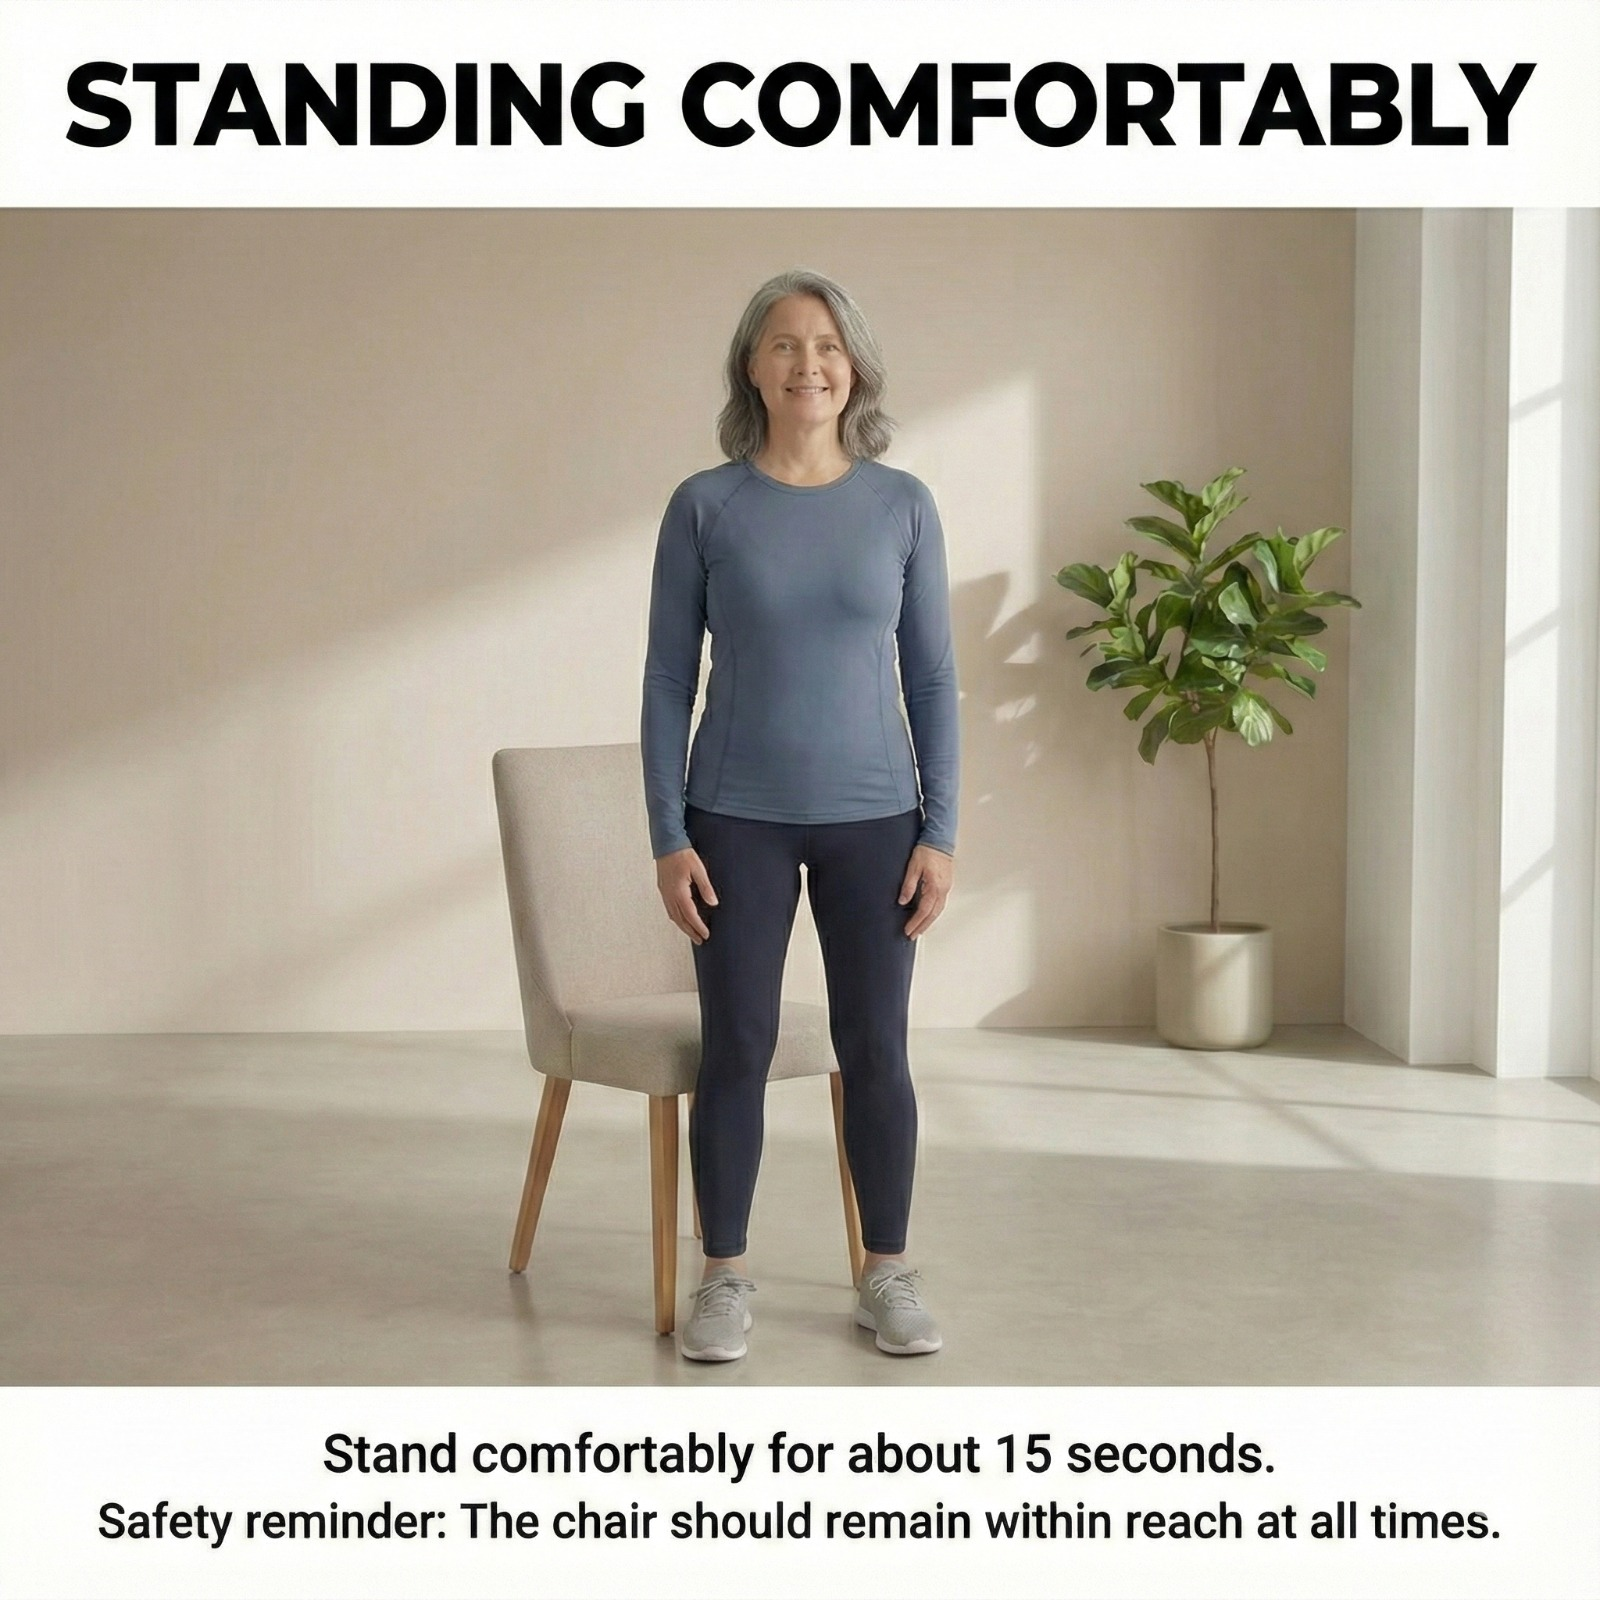
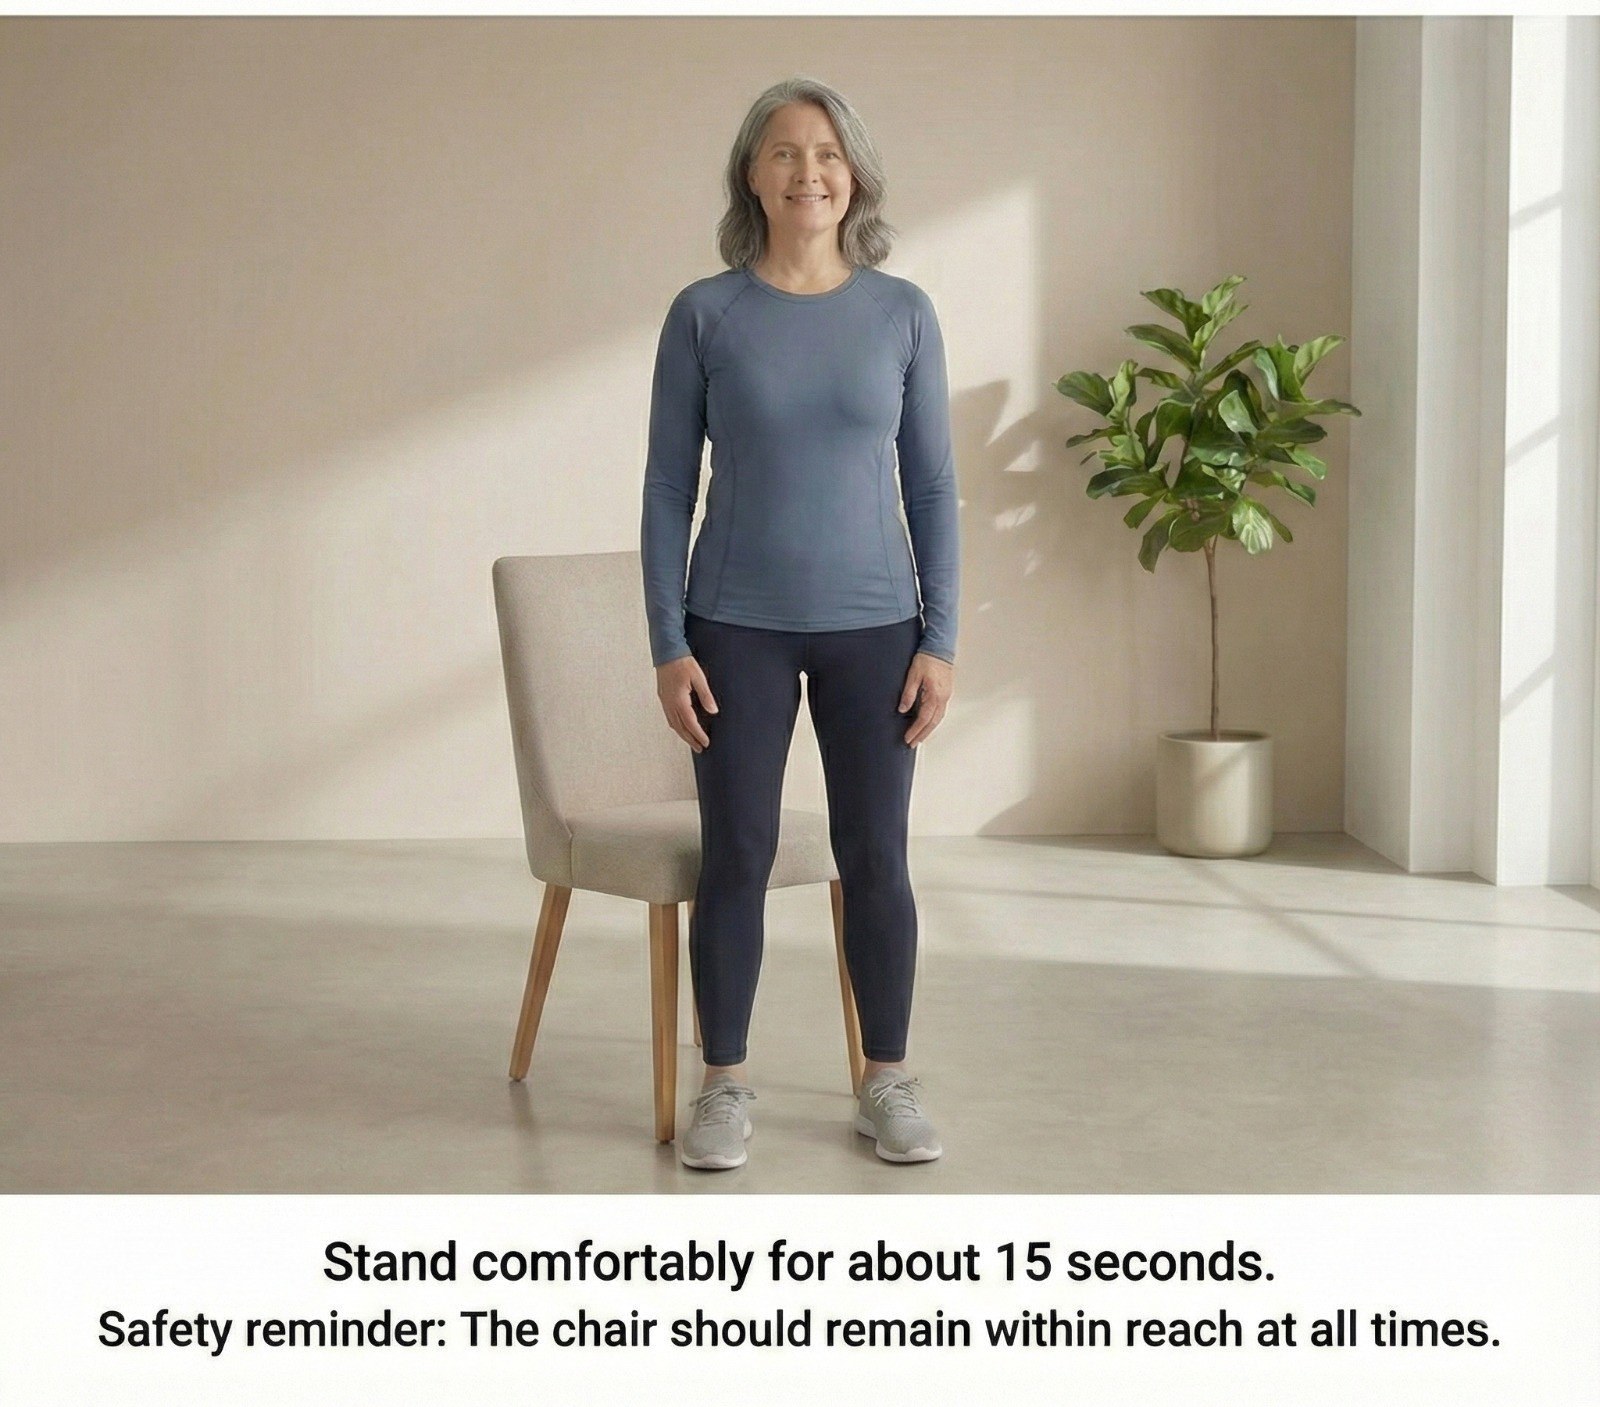
pic

diff --git a/src/componentsClient/biomechanicalAss.jsx b/src/componentsClient/biomechanicalAss.jsx
@@ -8,7 +8,6 @@ import thisIcon from '../assets/icon.png';
 const ChevronRight = () => <svg width="20" height="20" fill="none" stroke="currentColor" strokeWidth="2" strokeLinecap="round" strokeLinejoin="round"><path d="M9 18l6-6-6-6" /></svg>;
 const ChevronLeft = () => <svg width="20" height="20" fill="none" stroke="currentColor" strokeWidth="2" strokeLinecap="round" strokeLinejoin="round"><path d="M15 18l-6-6 6-6" /></svg>;
 const assessments = [
-  { name: "Ready to begin?" },
   { name: "Chair Stand" },
   { name: "Comfortable Stand" },
   { name: "Weight Shift" },
@@ -18,7 +17,6 @@ const assessments = [
 ];
 
 const feedbackAssessments = [
-  'Show thumbs up if you’re Ready to Begin ',
   'Stand up from the chair and sit back down twice at a comfortable pace.',
   'Stand comfortably in front of the chair for about 15 seconds.',
   'Gently shift your weight from side to side while standing',
@@ -231,7 +229,7 @@ function BiomechanicalAss() {
       console.warn('Error stopping camera:', err);
     }
   };
-  
+
   const Back = () => {
     assessmentIndex > 0 ? setassessmentIndex(assessmentIndex - 1) : null
   };
@@ -257,8 +255,10 @@ function BiomechanicalAss() {
       let resData = await doApiMethod("/questions/edit", "PUT", data);
       console.log("resData" + resData);
       if (resData.status == 200) {
-        {stopCamera();
-        toOutCome();}
+        {
+          stopCamera();
+          toOutCome();
+        }
       }
     } catch (error) {
       console.log(error);
@@ -322,7 +322,7 @@ function BiomechanicalAss() {
       <div className="flex-grow-1 d-flex p-3 gap-3" style={{ minHeight: 0 }}>
 
         {/* צד שמאל: מצלמת משתמש (גדול) */}
-        <div className="flex-grow-1 bg-black rounded-3 overflow-hidden position-relative border shadow-sm" style={{ flexBasis: '50%' }}>
+        <div className="flex-grow-1 bg-black  overflow-hidden position-relative  " style={{ flexBasis: '60%' }}>
           <video ref={videoRef} autoPlay playsInline muted style={{ width: '100%', height: '100%', objectFit: 'cover', transform: 'scaleX(-1)' }} />
           <canvas ref={canvasRef} style={{ position: "absolute", top: 0, left: 0, width: '100%', height: '100%', objectFit: 'cover', transform: 'scaleX(-1)' }} />
 
@@ -335,16 +335,13 @@ function BiomechanicalAss() {
         </div>
 
         {/* צד ימין: הוראות (צר יותר) */}
-        <div className="d-flex flex-column gap-3" style={{ flexBasis: '50%' }}>
+        <div className="d-flex flex-column gap-3" style={{ flexBasis: '40%' }}>
           {/* כותרת הנחיה */}
-          <div className="bg-white p-3 rounded-3 border shadow-sm flex-shrink-0">
-            <h5 className="m-0 fw-bold">{getAssessmentName()}</h5>
-            <p className="text-muted m-0 small">{feedbackAssessments[assessmentIndex]}</p>
-          </div>
+
 
           {/* וידאו הדרכה */}
           <div className="flex-grow-1 bg-white rounded-3 overflow-hidden border shadow-sm position-relative">
-            <img src={thisIcon} alt="Logo" width="35" className="opacity-75" />
+            <img src={`src/assets/pic${assessmentIndex + 1}.jpg`} alt="Logo" height="100%" width="100%" className="opacity-75" />
           </div>
         </div>
       </div>
@@ -358,7 +355,10 @@ function BiomechanicalAss() {
         >
           Back
         </button>
-
+      <div className="bg-orange px-4 py-2  d-flex flex-column align-items-center" style={{borderRadius: "20px", backgroundColor: "#FF5722" ,opacity: "0.8" , color: "white"}}>
+          <h5 className="m-0 fw-bold ">{getAssessmentName()}</h5>
+          <p  className=" m-0 small" >{feedbackAssessments[assessmentIndex]}</p>
+        </div>
         <button
           onClick={Next}
           className="d-flex align-items-center gap-2 fw-bold"
